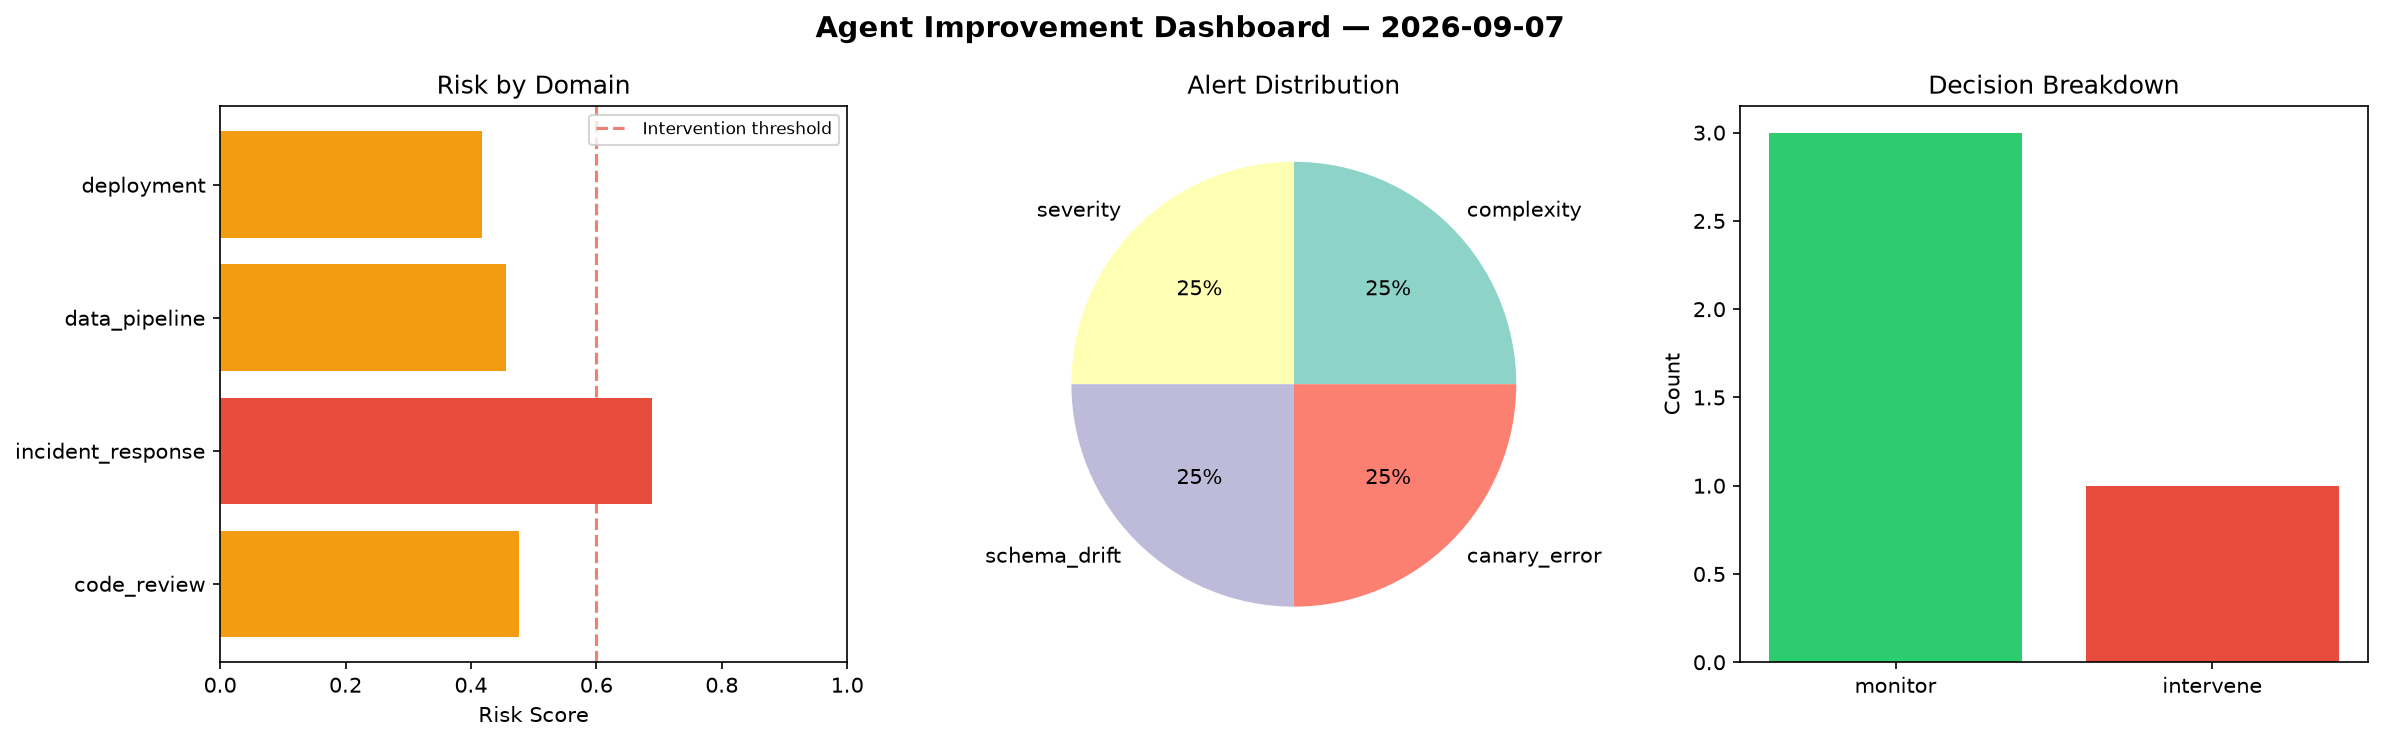
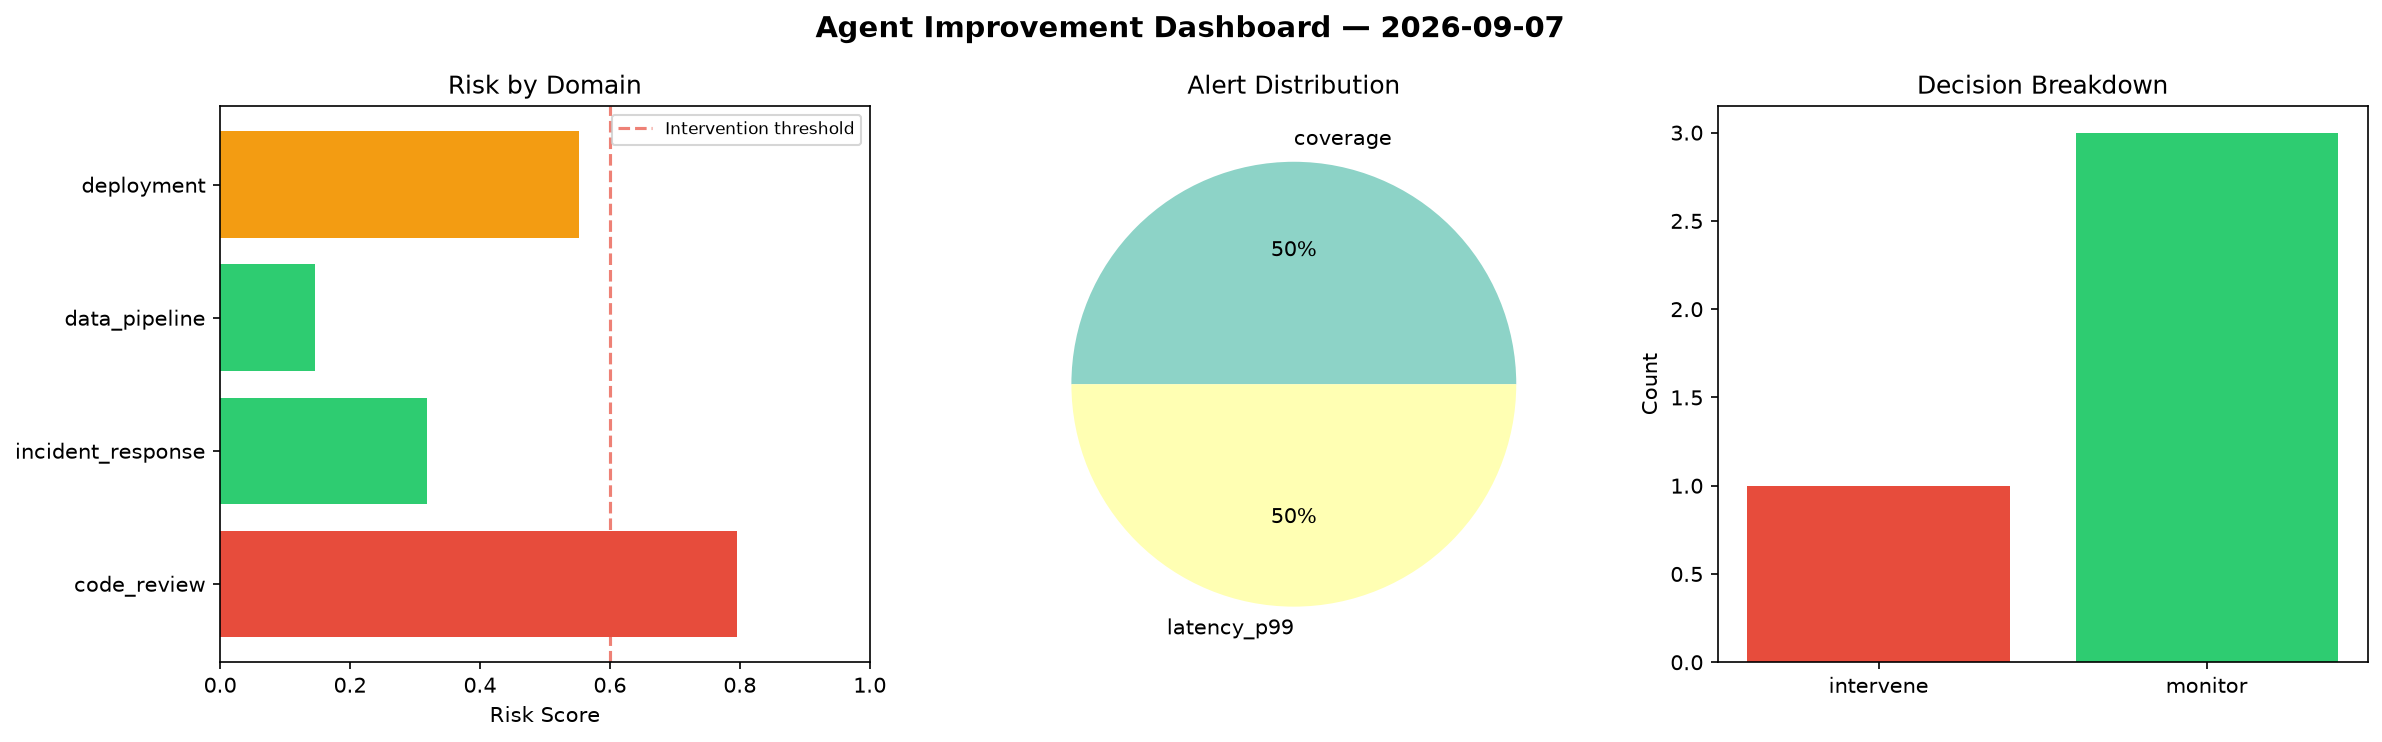
agent-improvement: daily cycle 2026-09-07T22:49

diff --git a/logs/2026-09-07.md b/logs/2026-09-07.md
@@ -1,6 +1,6 @@
 # Agent Improvement Report — 2026-09-07
 
-**Cycle ID:** `45815005` | **Avg Risk:** 0.5097 | **Interventions:** 1/4
+**Cycle ID:** `dbe7b1f8` | **Avg Risk:** 0.4532 | **Interventions:** 1/4
 
 ![Dashboard](2026-09-07_dashboard.png)
 
@@ -10,18 +10,18 @@
 
 | Domain | Risk Score | Decision | Alerts |
 |--------|-----------|----------|--------|
-| code_review | 0.4767 | monitor | complexity |
-| incident_response | 0.6882 | intervene | severity |
-| data_pipeline | 0.4556 | monitor | schema_drift |
-| deployment | 0.4181 | monitor | canary_error |
+| code_review | 0.7964 | intervene | coverage |
+| incident_response | 0.3178 | monitor | none |
+| data_pipeline | 0.1466 | monitor | none |
+| deployment | 0.5521 | monitor | latency_p99 |
 
 ## Delta vs Yesterday
 
 | Domain | Today | Yesterday | Change |
 |--------|-------|-----------|--------|
-| code_review | 0.4767 | 0.2512 | 📈 89.8% |
-| incident_response | 0.6882 | 0.4725 | 📈 45.7% |
-| data_pipeline | 0.4556 | 0.4722 | 📉 -3.5% |
-| deployment | 0.4181 | 0.6355 | 📉 -34.2% |
+| code_review | 0.7964 | 0.2512 | 📈 217.0% |
+| incident_response | 0.3178 | 0.4725 | 📉 -32.7% |
+| data_pipeline | 0.1466 | 0.4722 | 📉 -69.0% |
+| deployment | 0.5521 | 0.6355 | 📉 -13.1% |
 
 **Refinement:** `{'adjustment': 'maintain', 'trend': 'improving', 'window': 4}`
